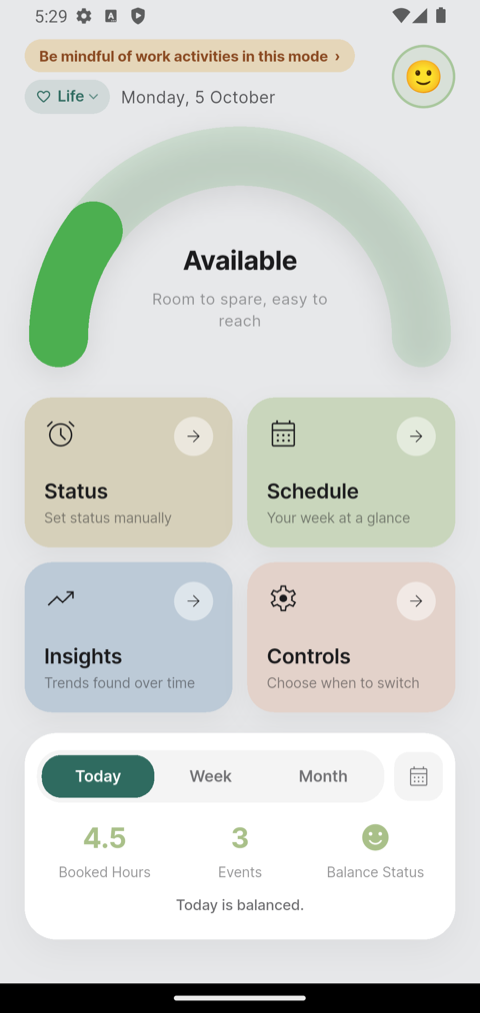
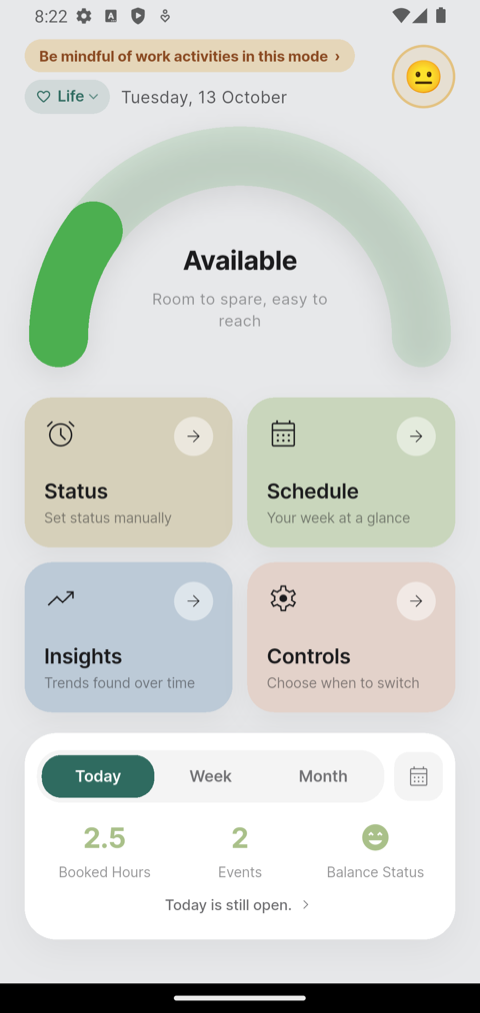
tutorial_stats_composition

diff --git a/tutorial/index.html b/tutorial/index.html
@@ -248,7 +248,7 @@
   <p class="eyebrow">Read this one first</p>
   <h2>What BAI is actually for, day to day</h2>
   <p>
-    Everything after this is setup, done once. These six are the ones worth
+    Everything after this is setup, done once. These seven are the ones worth
     remembering — they are what using BAI looks like most days, once it is running.
   </p>
 
@@ -385,6 +385,29 @@
       <figcaption>Tap the yellow line · set how long</figcaption>
     </figure>
   </div>
+
+  <div class="step" id="pillars-see-what-your-hours-are-made-of">
+    <div class="step-body">
+      <h3><span class="num">7</span>See what your hours are made of <span class="new">New</span></h3>
+      <p>
+        On the dashboard, tap the figures on the bottom card (or the sentence under
+        them, which ends in <em>›</em>). BAI shows the events behind the number: one
+        day in a small window, a week or a month on a page of its own.
+      </p>
+      <p>
+        You can sort the list, and tap an event that has not ended yet to leave it
+        out or set a reminder to prepare.
+      </p>
+      <p class="pillar-when">
+        If the day is overloaded, the same tap opens the capacity page instead.
+        <a href="#home-what-the-hours-are-made-of">More about these views</a>.
+      </p>
+    </div>
+    <figure>
+      <img src="img/stats-day.png" alt="A window over the dashboard listing one day's booked hours and its three events, longest first" onerror="shotMissing(this)">
+      <figcaption>Tap the figures · see the events</figcaption>
+    </figure>
+  </div>
 </section>
 
 <!-- Shortcuts: one line per thing people come here for, each going straight to
@@ -407,6 +430,7 @@
     <li><a href="#schedule-set-an-event-aside-dont-count">stop an event counting</a></li>
     <li><a href="#schedule-remind-me-to-prepare">get a reminder to prepare</a></li>
     <li><a href="#pillars-say-when-you-work-outside-your">say I am working outside my hours</a></li>
+    <li><a href="#pillars-see-what-your-hours-are-made-of">see which events make up my hours</a></li>
     <li><a href="#schedule-what-counts">find out why my day looks too full</a></li>
     <li><a href="#alerts-today-is-overloaded">understand an overloaded alert</a></li>
     <li><a href="#controls-choose-how-your-mode-is-decided">set my working hours</a></li>
@@ -462,6 +486,52 @@
     <figure>
       <img src="img/dashboard.png" alt="The BAI dashboard showing an Available status, four tiles, and today's calendar figures">
       <figcaption>The dashboard</figcaption>
+    </figure>
+  </div>
+
+  <div class="step" id="home-what-the-hours-are-made-of">
+    <div class="step-body">
+      <h3><span class="num">·</span>See what the hours are made of <span class="new">New</span></h3>
+      <p>
+        Tap the figures on the bottom card, or the sentence under them (it ends in
+        <em>›</em>), to see what is behind the number. For <strong>one day</strong> a
+        small window opens over the dashboard.
+      </p>
+      <ul>
+        <li>It shows the hours booked, the share of the day, and that day's events.</li>
+        <li><strong>Longest / Shortest / By time</strong> changes the order of the
+            list.</li>
+        <li>Tap an event that has not ended yet to <strong>leave it out</strong> or set
+            a <strong>reminder to prepare</strong>, as on the Schedule.</li>
+        <li>If the day is <strong>overloaded</strong>, the same tap opens the capacity
+            page instead (<a href="#alerts-today-is-overloaded">Alerts, step 1</a>).</li>
+      </ul>
+    </div>
+    <figure>
+      <img src="img/stats-day.png" alt="A window over the dashboard listing one day's booked hours and its three events, longest first" onerror="shotMissing(this)">
+      <figcaption>Dashboard · one day's hours</figcaption>
+    </figure>
+  </div>
+
+  <div class="step" id="home-a-week-or-a-month-of-hours">
+    <div class="step-body">
+      <h3><span class="num">·</span>A week or a month of hours <span class="new">New</span></h3>
+      <p>
+        With <strong>Week</strong>, <strong>Month</strong> or days you picked, the same
+        tap opens the <strong>Booked hours</strong> page.
+      </p>
+      <ul>
+        <li><strong>One box per day</strong>, in that day's colour: the deeper the
+            colour, the fuller the day.</li>
+        <li><strong>Tap a box</strong> to see only that day's events; tap it again for
+            all of them.</li>
+        <li>The list sorts and answers to a tap the same way as the day window. A long
+            list shows the first eight, with <strong>Show all</strong> under them.</li>
+      </ul>
+    </div>
+    <figure>
+      <img src="img/stats-week.png" alt="The Booked hours page for a week, with a coloured box for each day and the week's events listed below" onerror="shotMissing(this)">
+      <figcaption>Dashboard · a week's hours</figcaption>
     </figure>
   </div>
 </section>
@@ -928,7 +998,8 @@
         <li>It <strong>reacts at once</strong>: the ring, the dashboard figures and your
             status all follow, as if you had deleted it.</li>
         <li>This is for <strong>today and the days ahead</strong>. Once a day has
-            passed, its events can no longer be tapped; earlier today still can.</li>
+            passed, its events can no longer be tapped, and neither can an event
+            earlier today once it has ended.</li>
       </ul>
       <div class="callout">
         BAI still tells you when a new event lands on top of one you have set aside — as
@@ -1183,14 +1254,15 @@
       <p>
         When a day is booked past what it holds, BAI tells you — by default at 7:00 in the
         morning, or as soon as a new event pushes today over the line. Tap the alert (or a
-        <em>Now Stretched</em> alert), or the <strong>See what's driving it</strong> link
-        on the dashboard or the banner on the Schedule, to open the <strong>capacity
-        page</strong>. You are told once per day: if the 7:00 alert has spoken, BAI does
+        <em>Now Stretched</em> alert), or the figures on the dashboard's bottom card, or
+        the banner on the Schedule, to open the <strong>capacity page</strong>. You are told once per day: if the 7:00 alert has spoken, BAI does
         not send <em>Now Stretched</em> for the same day as well.
       </p>
       <ul>
         <li>The <strong>ring</strong> shows how full the day is.</li>
-        <li><strong>What's driving it</strong> lists the events, biggest first.</li>
+        <li><strong>What's driving it</strong> lists the events, biggest first. For
+            a week, a month or days you picked, it shows a box per day first, then
+            the events; tap a box to see only that day.</li>
         <li>On a day you can still change, <strong>Ways to ease it</strong> suggests
             moving or shortening the heaviest block.</li>
         <li>On a <strong>Partly available</strong> day, the page measures against the
